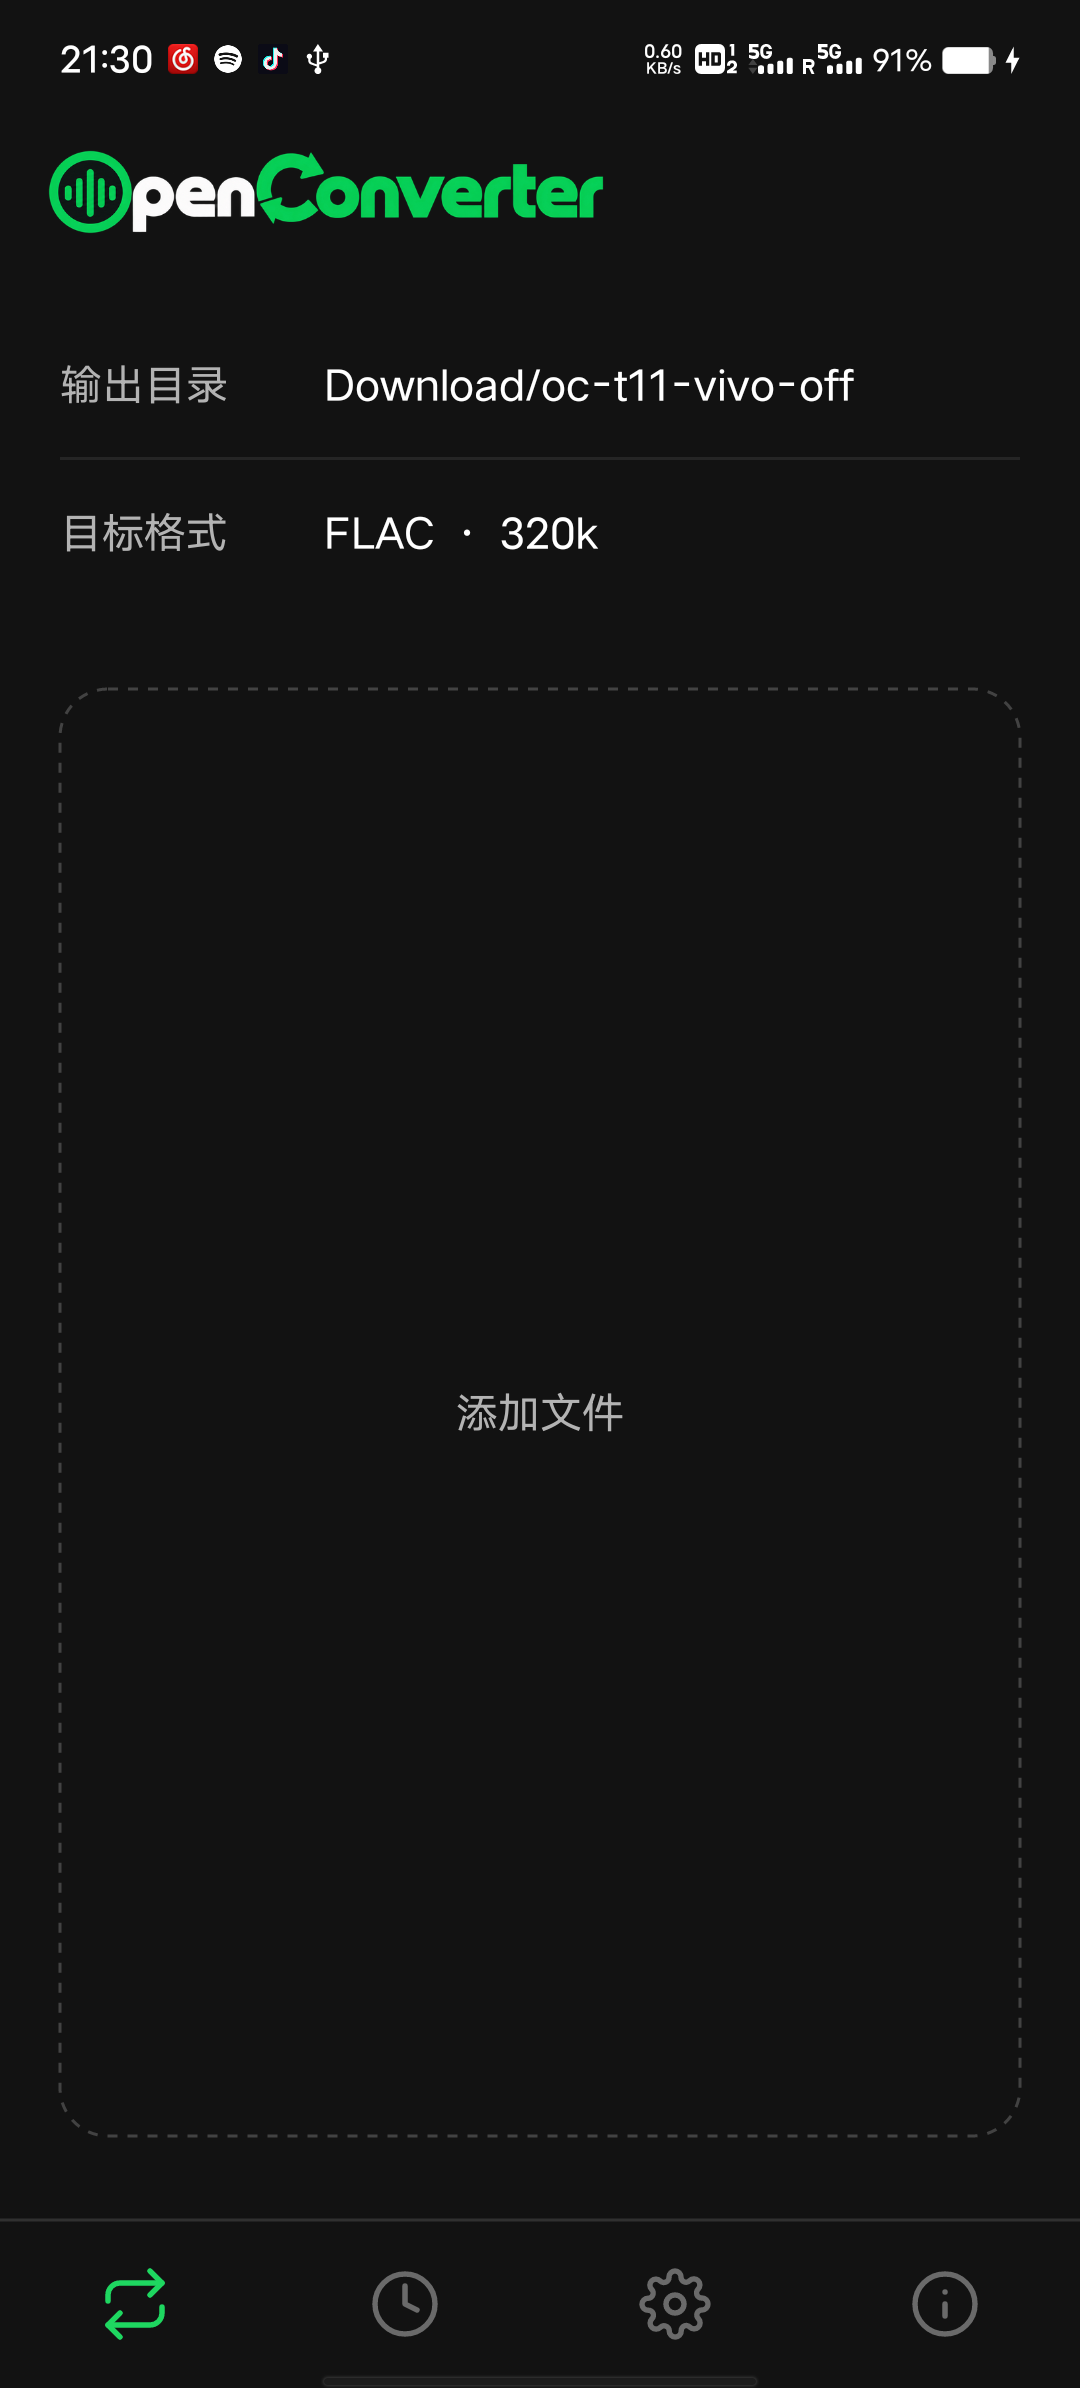
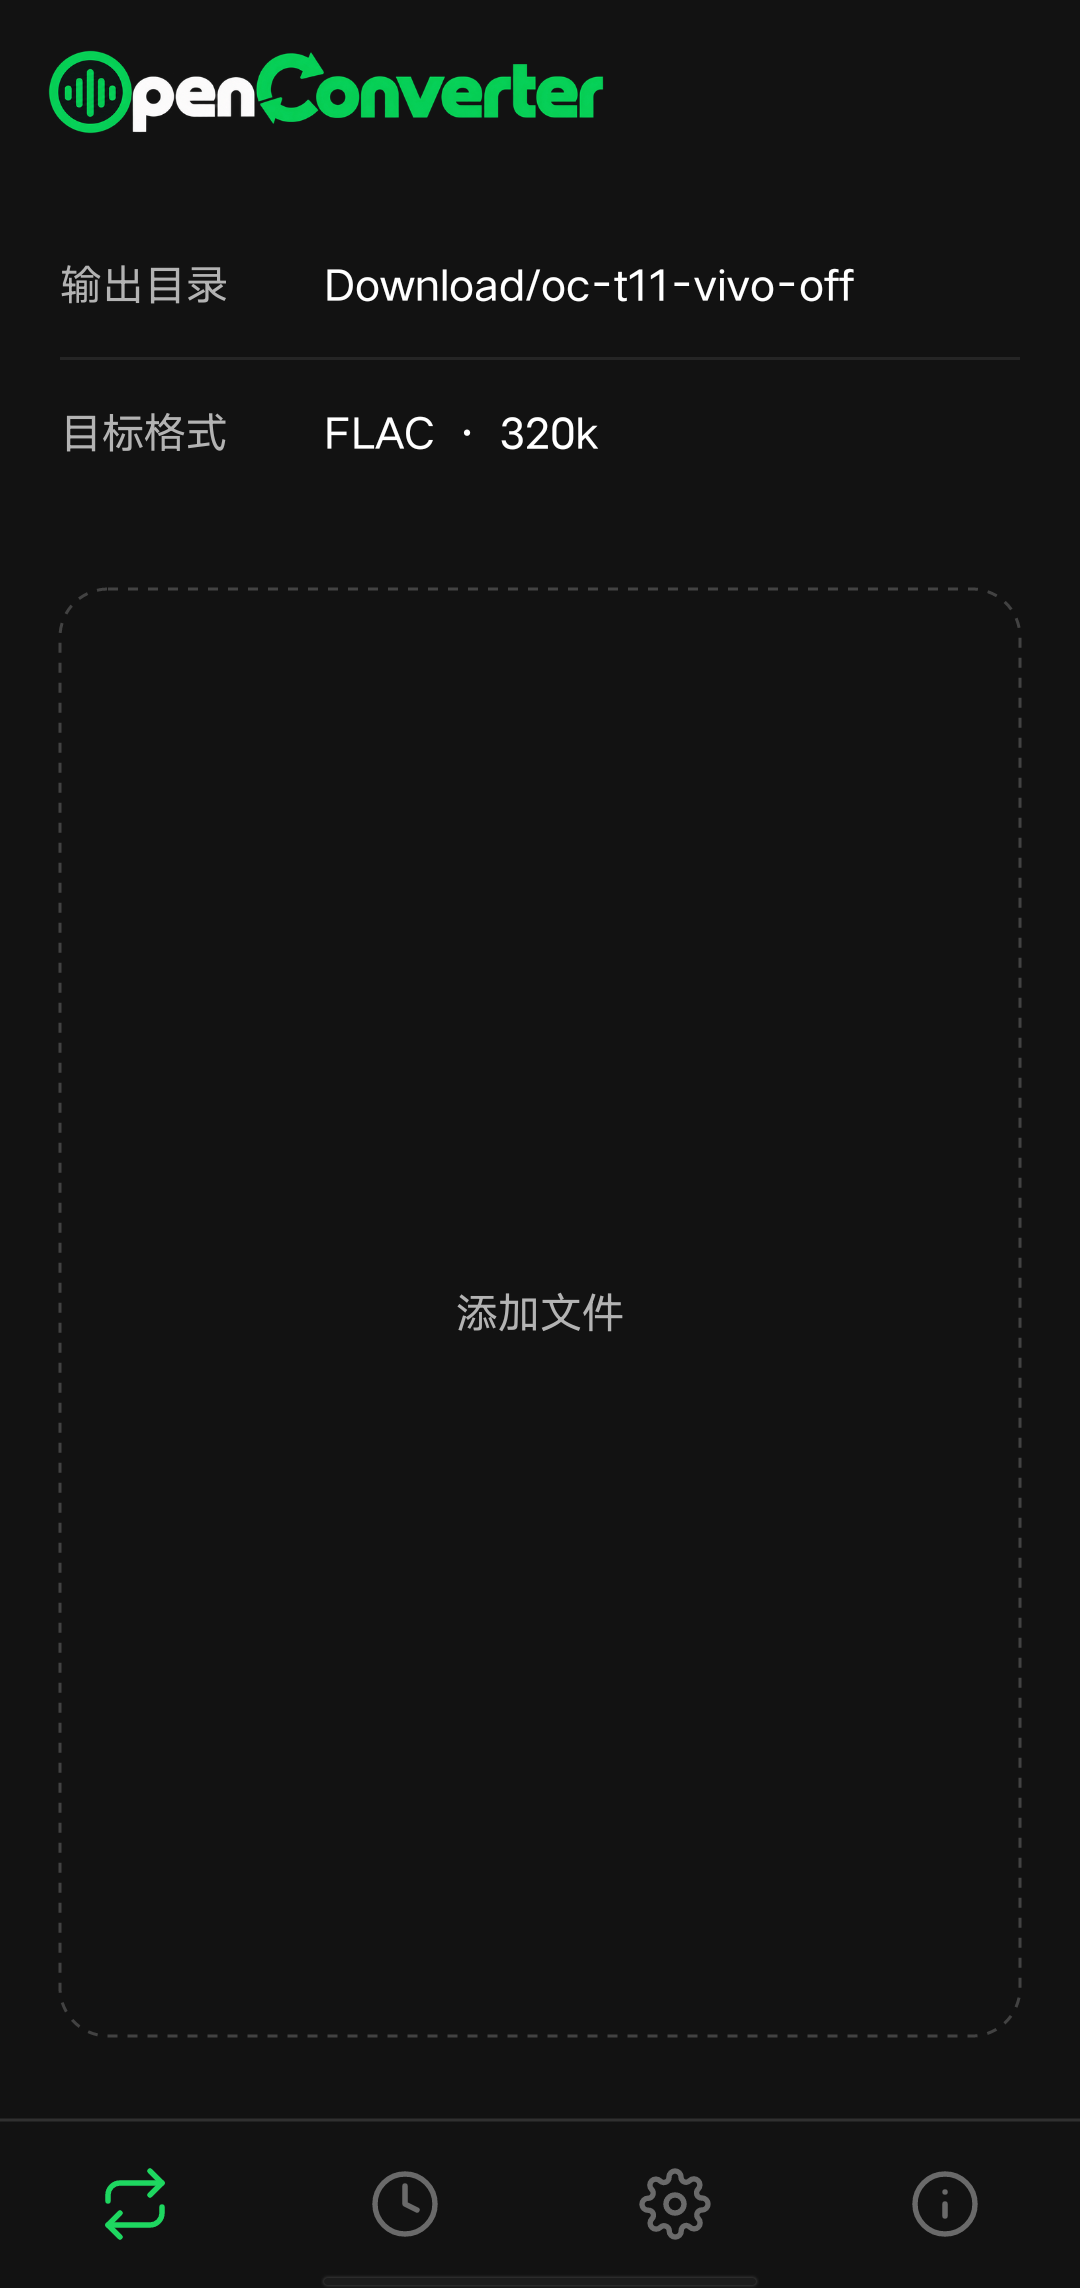
docs: separate the convert screenshots and crop the phone status bar

diff --git a/README_EN.md b/README_EN.md
@@ -49,14 +49,11 @@ A lightweight format conversion and decryption tool for audio workflows.<br/>
 ## UI Preview
 
 <p align="center">
-  <img src="assets/screenshots/desktop-convert-en.png" alt="Desktop convert" width="49%" />
-  <img src="assets/screenshots/desktop-history-en.png" alt="Desktop history" width="49%" /><br>
-  <img src="assets/screenshots/desktop-settings-en.png" alt="Desktop settings" width="49%" />
-  <img src="assets/screenshots/desktop-about-en.png" alt="Desktop about" width="49%" /><br>
-  <img src="assets/screenshots/android-convert.png" alt="Android convert" width="22%" />
-  <img src="assets/screenshots/android-queue.png" alt="Android queue" width="22%" />
-  <img src="assets/screenshots/android-settings.png" alt="Android settings" width="22%" />
-  <img src="assets/screenshots/android-about.png" alt="Android about" width="22%" />
+  <img src="assets/screenshots/desktop-convert-en.png" alt="Desktop convert" width="100%" />
+</p>
+
+<p align="center">
+  <img src="assets/screenshots/android-convert.png" alt="Android convert" width="280" />
 </p>
 
 ---

diff --git a/README.md b/README.md
@@ -49,14 +49,11 @@
 ## 界面预览
 
 <p align="center">
-  <img src="assets/screenshots/desktop-convert.png" alt="桌面端转换" width="49%" />
-  <img src="assets/screenshots/desktop-history.png" alt="桌面端历史" width="49%" /><br>
-  <img src="assets/screenshots/desktop-settings.png" alt="桌面端设置" width="49%" />
-  <img src="assets/screenshots/desktop-about.png" alt="桌面端关于" width="49%" /><br>
-  <img src="assets/screenshots/android-convert.png" alt="手机端转换" width="22%" />
-  <img src="assets/screenshots/android-queue.png" alt="手机端队列" width="22%" />
-  <img src="assets/screenshots/android-settings.png" alt="手机端设置" width="22%" />
-  <img src="assets/screenshots/android-about.png" alt="手机端关于" width="22%" />
+  <img src="assets/screenshots/desktop-convert.png" alt="桌面端转换" width="100%" />
+</p>
+
+<p align="center">
+  <img src="assets/screenshots/android-convert.png" alt="手机端转换" width="280" />
 </p>
 
 ---
